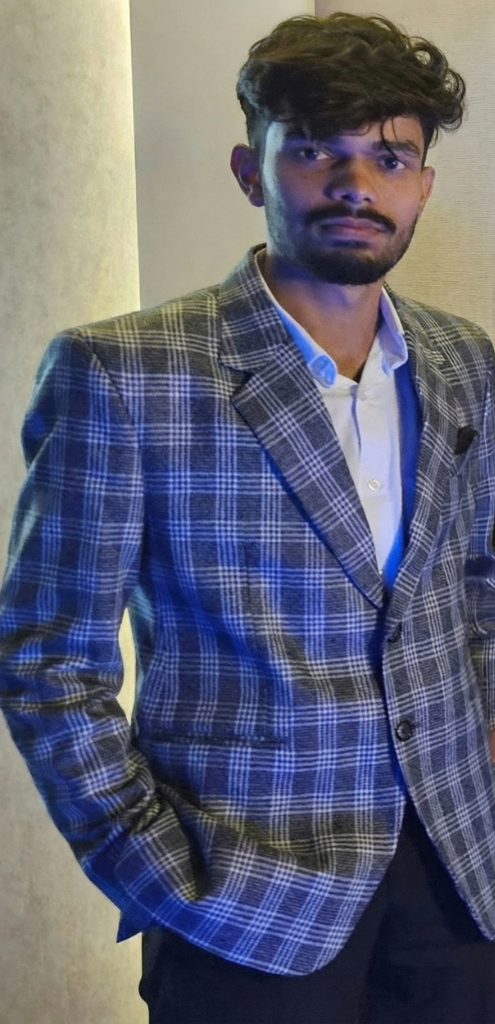
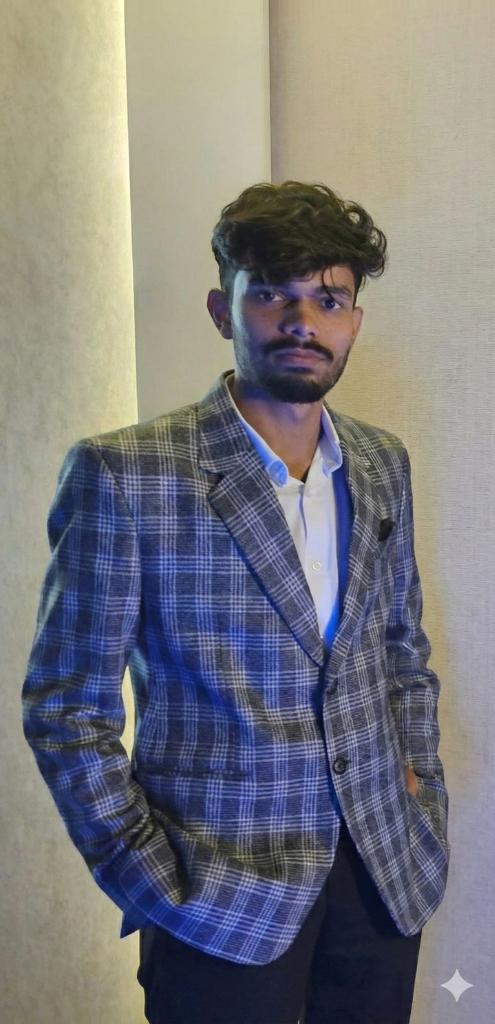
Update photo and adjust positioning

diff --git a/style.css b/style.css
@@ -146,7 +146,7 @@ body {
     height: 200px;
     border-radius: 50%;
     object-fit: cover;
-    object-position: center 20%;
+    object-position: center 15%;
     border: 3px solid var(--border);
 }
 
